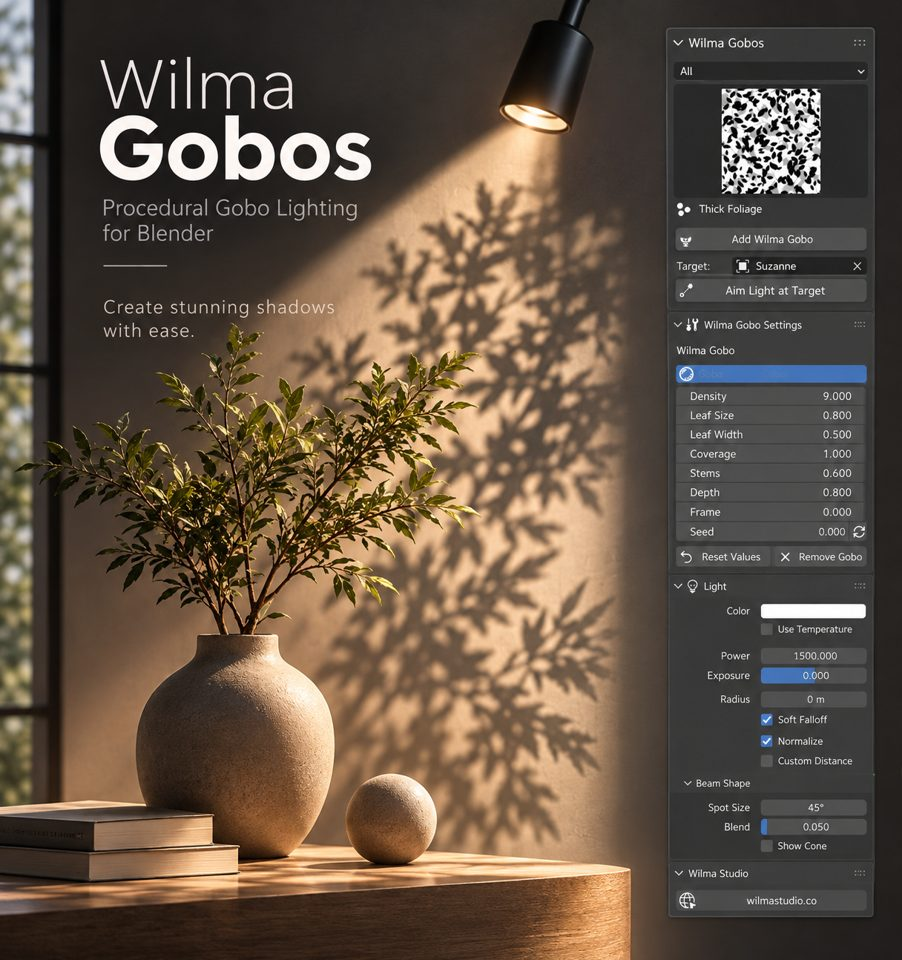
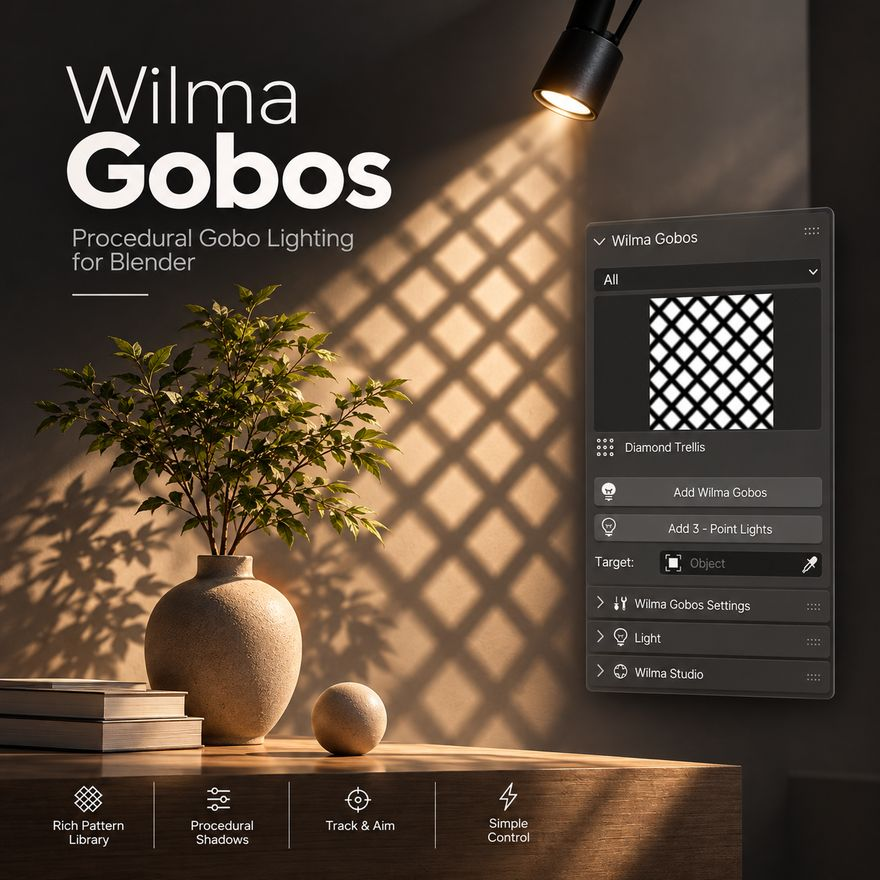
Wilma Gobos v1.4.2
- Preset browser groups presets by category again: each folder (Frames,
  Meshwork, Botanical, Atmosphere, Graphic, Lines & Shapes) stays together
  in the list; Custom Image still leads; category list capped at 10 folders
- New repository poster artwork (compressed banner + full images)

diff --git a/presets.py b/presets.py
@@ -7,15 +7,14 @@ or "Finish.Invert" to be explicit. Angles are in degrees here.
 """
 
 import math
-import random as _random
 
 from . import patterns
 
-# Stable, deterministic shuffle of preset positions so the browser layout
-# looks organic instead of strictly grouped by category. The seed is fixed
-# so the order never jumps around between redraws or sessions. The original
-# index is still carried as the enum number, keeping identifiers stable.
-_SHUFFLE_SEED = 20240520
+# The preset browser reads as tidy folders: presets are shown grouped by
+# category (Frames, Meshwork, Botanical, Atmosphere, Graphic, Lines & Shapes)
+# in the order the categories are declared. Keep the folder list at ten or
+# fewer so the browser never becomes an endless tree. The original index is
+# still carried as the enum number, keeping identifiers stable.
 
 # (id, label, category, pattern id, values)
 PRESETS = [
@@ -167,19 +166,22 @@ CATEGORIES = [
 
 PRESET_BY_ID = {p[0]: p for p in PRESETS}
 
-# Original index of each preset, shuffled into a stable random order. The
-# browser always shows "Custom Image" first, then the presets in this order.
-_SHUFFLED_ORDER = list(range(len(PRESETS)))
-_random.Random(_SHUFFLE_SEED).shuffle(_SHUFFLED_ORDER)
+# Original index of each preset, sorted into a stable category-grouped
+# order. The browser always shows "Custom Image" first, then the presets
+# grouped by category in the order declared above. The sort is stable, so
+# presets keep their authored order inside each group.
+_GROUP_ORDER = [c[0] for c in CATEGORIES if c[0] != "ALL"]
+_GROUPED_ORDER = sorted(range(len(PRESETS)),
+                        key=lambda i: (_GROUP_ORDER.index(PRESETS[i][2]), i))
 
 
 def preset_order():
-    """Yield (original_index, preset) in a stable, randomized order.
+    """Yield (original_index, preset) in a stable, category-grouped order.
 
     The original index is kept so enum numbers stay constant; only the
     display order changes.
     """
-    for i in _SHUFFLED_ORDER:
+    for i in _GROUPED_ORDER:
         yield i, PRESETS[i]
 
 

diff --git a/__init__.py b/__init__.py
@@ -4,7 +4,7 @@
 bl_info = {
     "name": "Wilma Gobos",
     "author": "Wilma Studio",
-    "version": (1, 4, 1),
+    "version": (1, 4, 2),
     "blender": (5, 2, 0),
     "location": "View3D > Sidebar > Wilma Gobos",
     "description": "Procedural gobo spot lights with pattern thumbnails",

diff --git a/README.md b/README.md
@@ -12,7 +12,7 @@
 <p align="center">
   <a href="https://wilmastudio.co">wilmastudio.co</a>
   &nbsp;&middot;&nbsp;
-  Version 1.4.1
+  Version 1.4.2
   &nbsp;&middot;&nbsp;
   Blender 5.2+
   &nbsp;&middot;&nbsp;
@@ -71,7 +71,7 @@ blocks it).
 
 ## Install
 
-1. Download the latest `Wilma_Gobos_Blender5.2_v1.4.1.zip` from the
+1. Download the latest `Wilma_Gobos_Blender5.2_v1.4.2.zip` from the
    [Releases](../../releases) page.
 2. In Blender 5.2: **Preferences &rsaquo; Get Extensions &rsaquo; drop-down
    menu (top right) &rsaquo; Install from Disk**, then choose the ZIP.
@@ -158,6 +158,13 @@ older file is opened, preserving the input values you saved.
 
 ## Changelog
 
+### 1.4.2
+- The preset list is tidy again: presets are grouped by category (Frames,
+  Meshwork, Botanical, Atmosphere, Graphic, Lines & Shapes), each folder
+  kept together in the browser. **Custom Image** still leads the list.
+  The category list is capped at ten folders.
+- New look for the repository page.
+
 ### 1.4.1
 - Three-point lighting rebalanced: all three lamps (Key, Fill, Rim) use a
   fixed **10 W** power and the intensity is balanced through **exposure**
@@ -174,8 +181,8 @@ older file is opened, preserving the input values you saved.
   and linked to the scene automatically.
 
 ### 1.3.2
-- The preset browser now shows patterns in a varied, organic layout instead
-  of a strict grouped run. **Custom Image** still always leads.
+- The preset browser used to show patterns in a varied, organic layout;
+  since 1.4.2 it is grouped by category again (see the 1.4.2 entry).
 - Switching category now keeps your current preset when it exists in the
   new category (previously it reset every time).
 - Internal clean-ups and a wider static test pass; no workflow changes.
